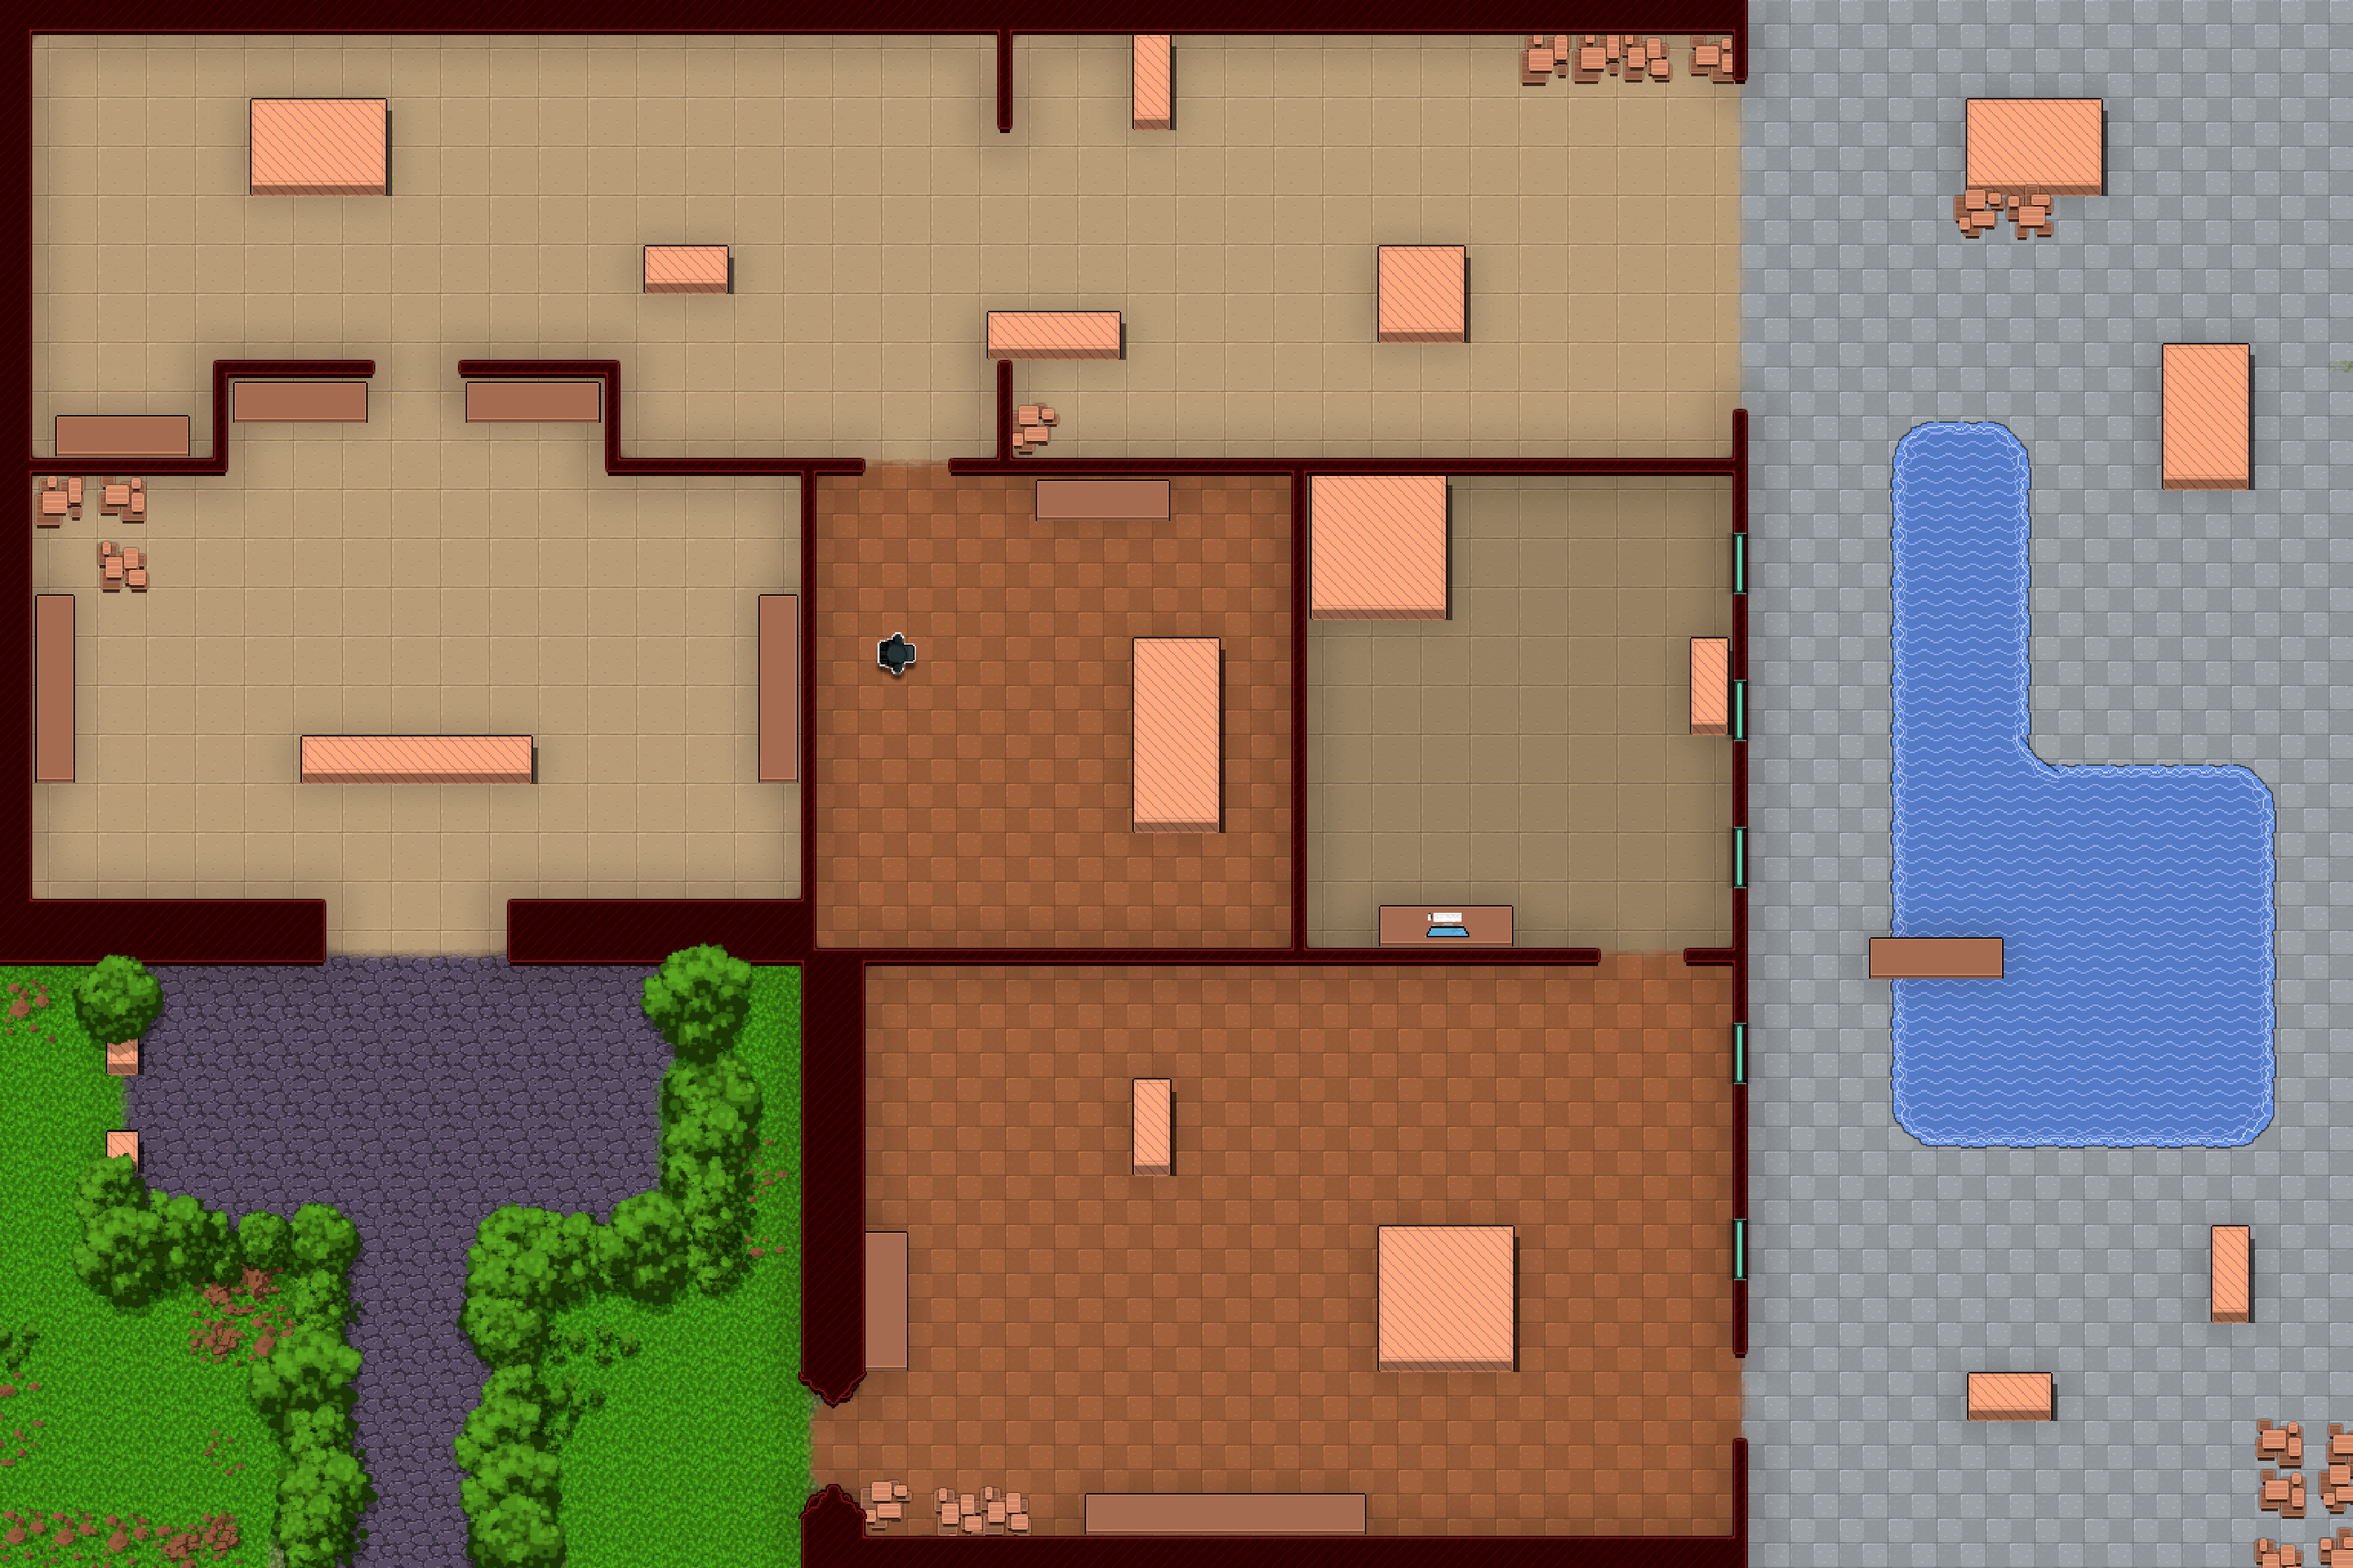
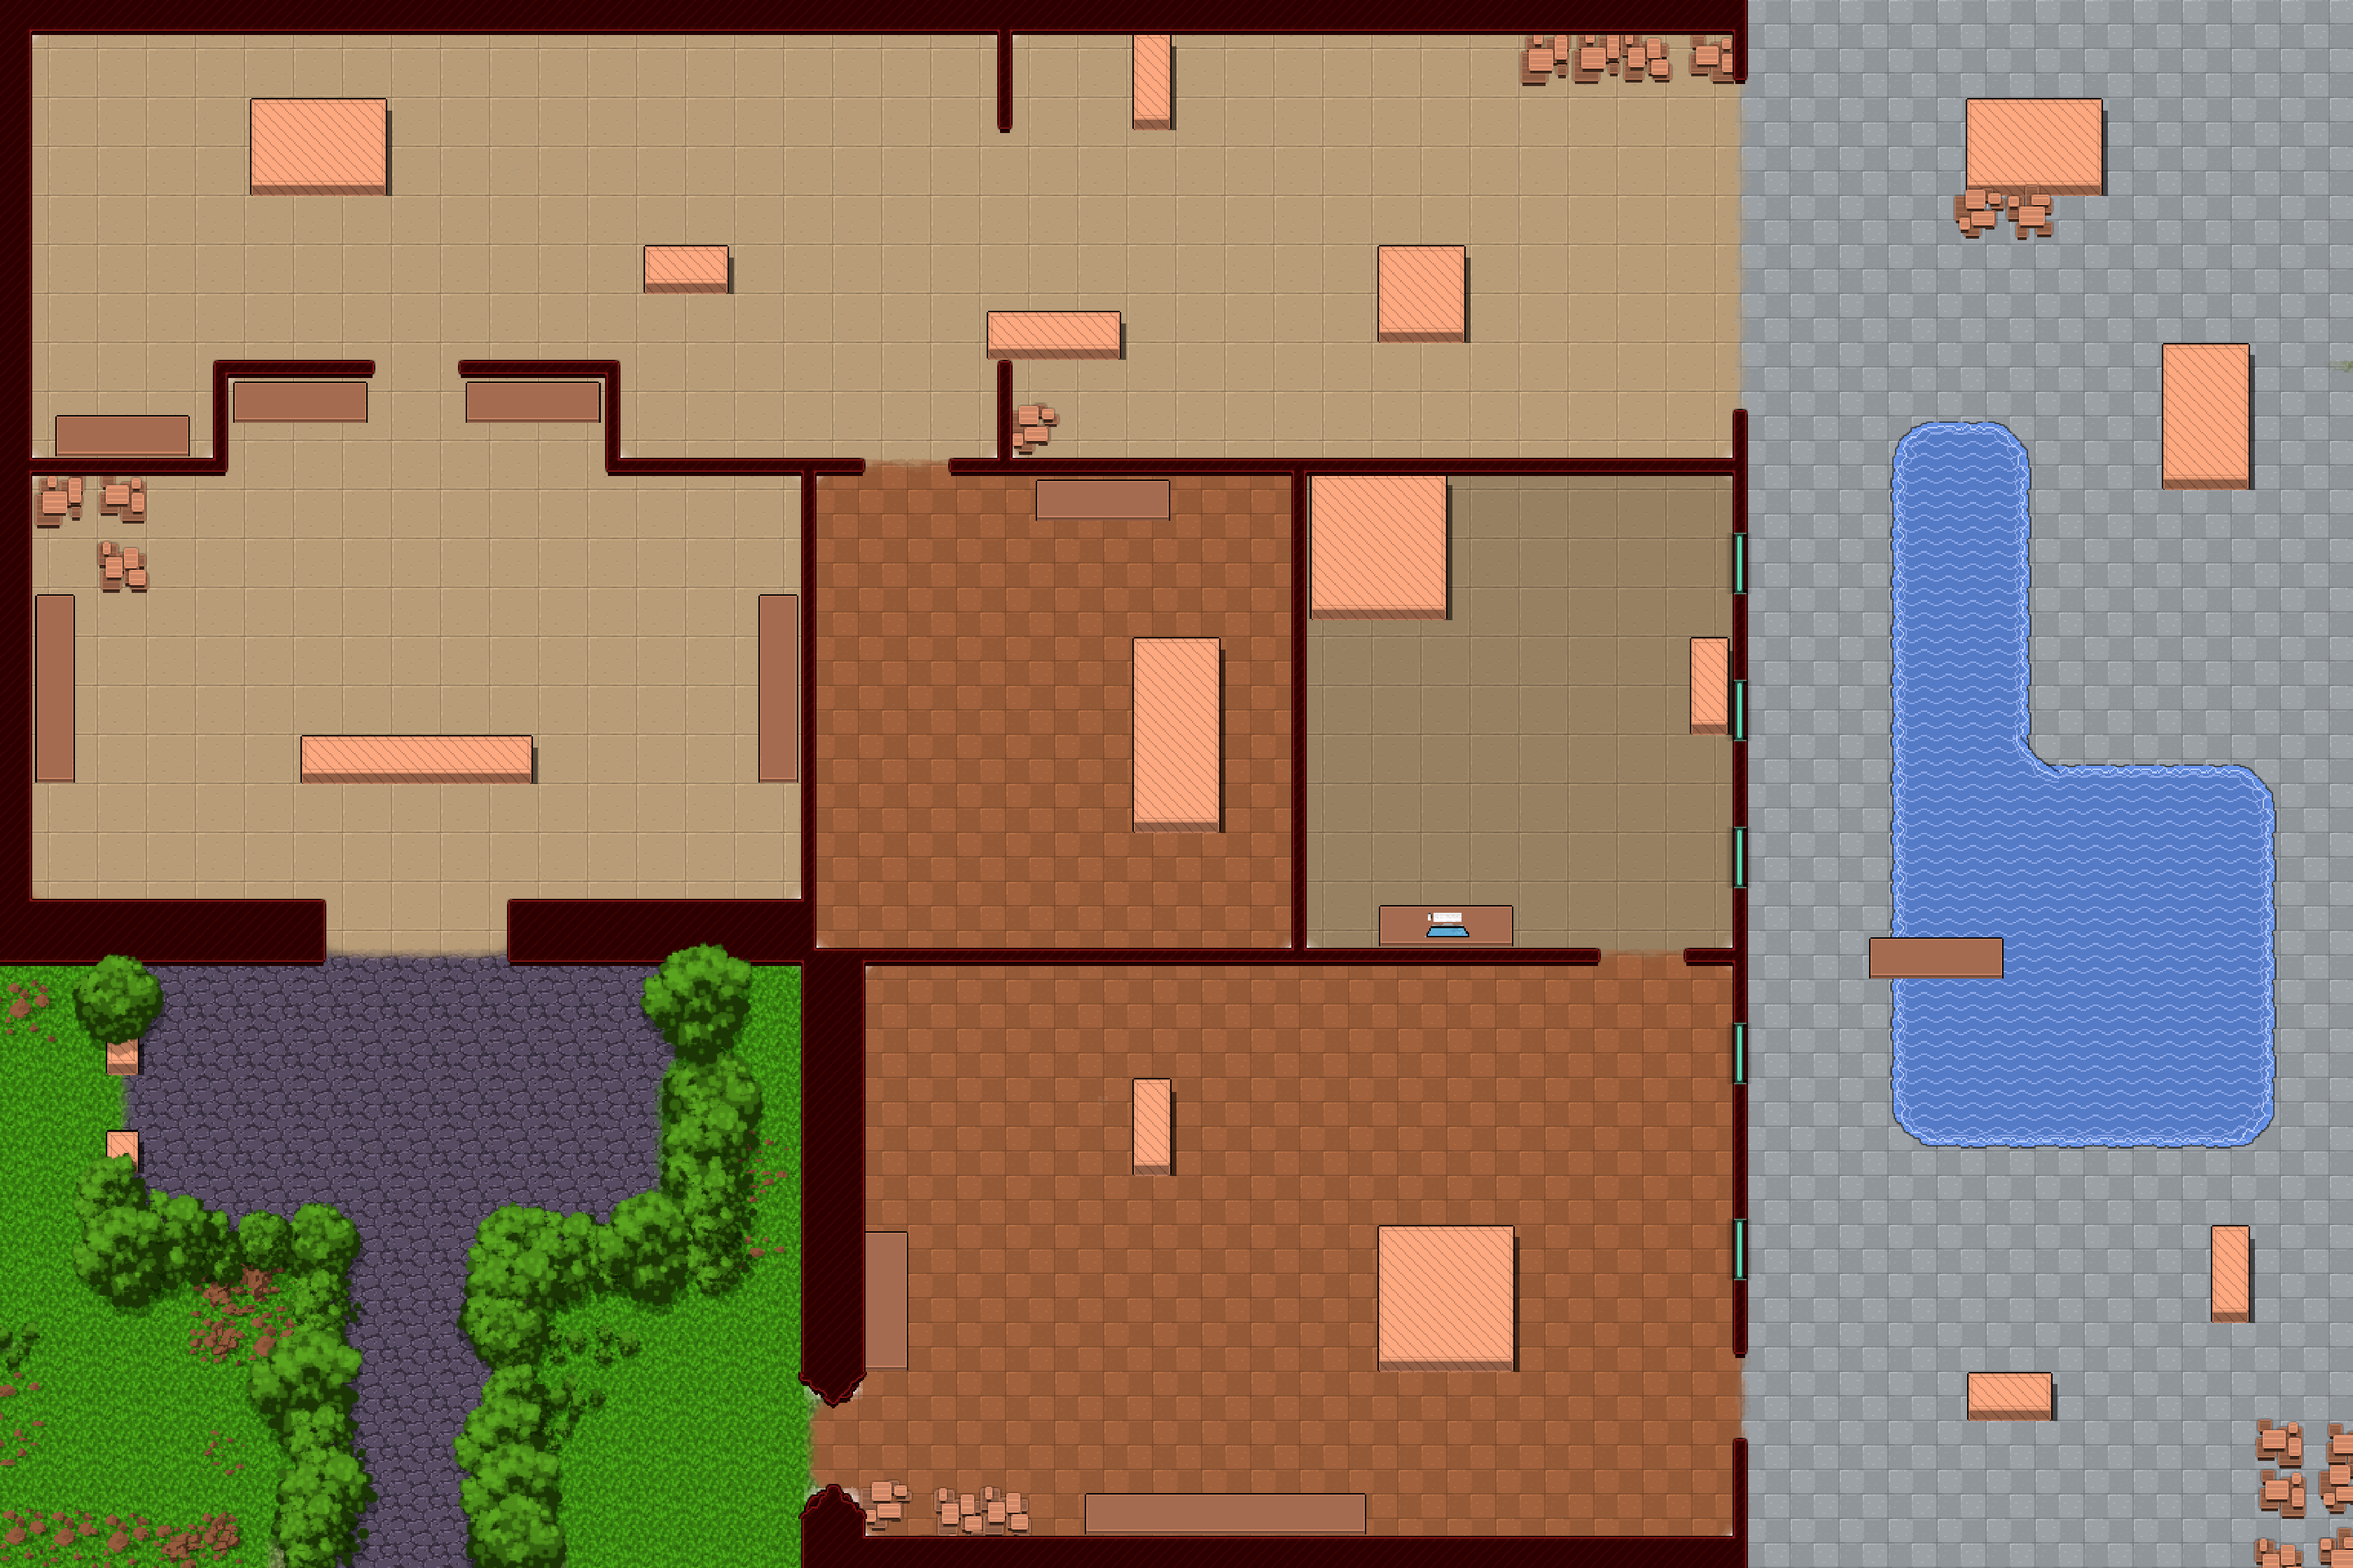
Corrected bug

diff --git a/src/game/bundle/guard.rs b/src/game/bundle/guard.rs
@@ -901,9 +901,9 @@ pub fn get_guard_bundle(level: &Level) -> Option<Vec<GuardBundle>> {
                             positions: vec![
                                 WorldPosition {x: 1901.0 , y: 600.0},
                                 WorldPosition {x: 2339.0, y: 806.0},
-                                WorldPosition {x: 2339.0, y: 1304.0},
+                                WorldPosition {x: 2339.0, y: 1004.0},
                                 WorldPosition {x: 2280.0, y: 1045.0},
-                                WorldPosition {x: 2339.0, y: 1304.0},
+                                WorldPosition {x: 2339.0, y: 1004.0},
                                 WorldPosition {x: 2339.0, y: 806.0},
                             ],
                             waitings: vec![
